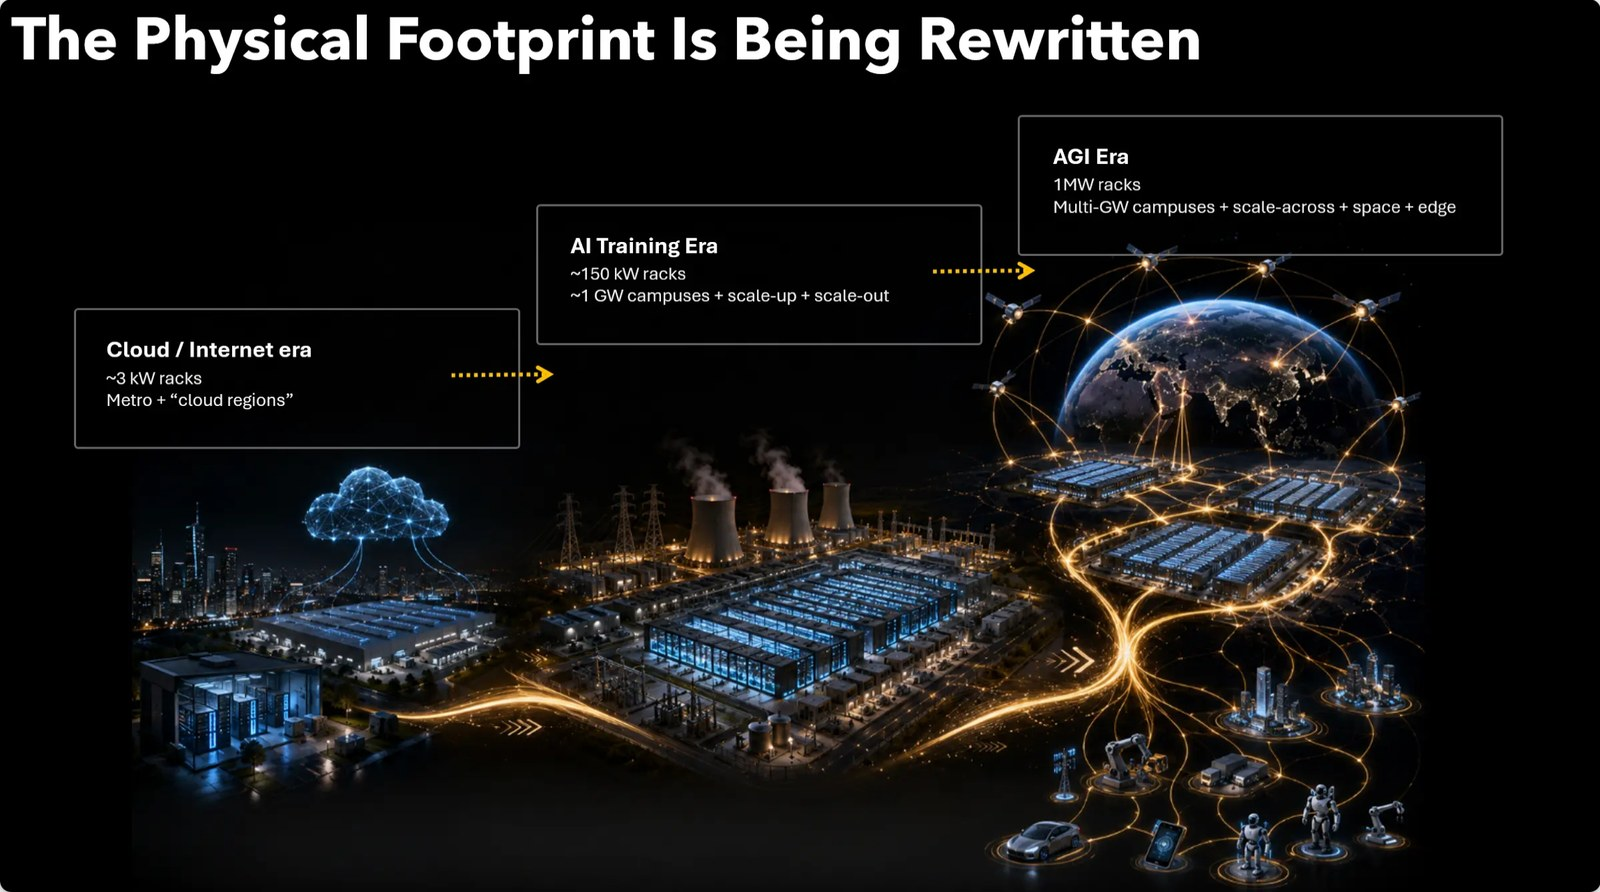
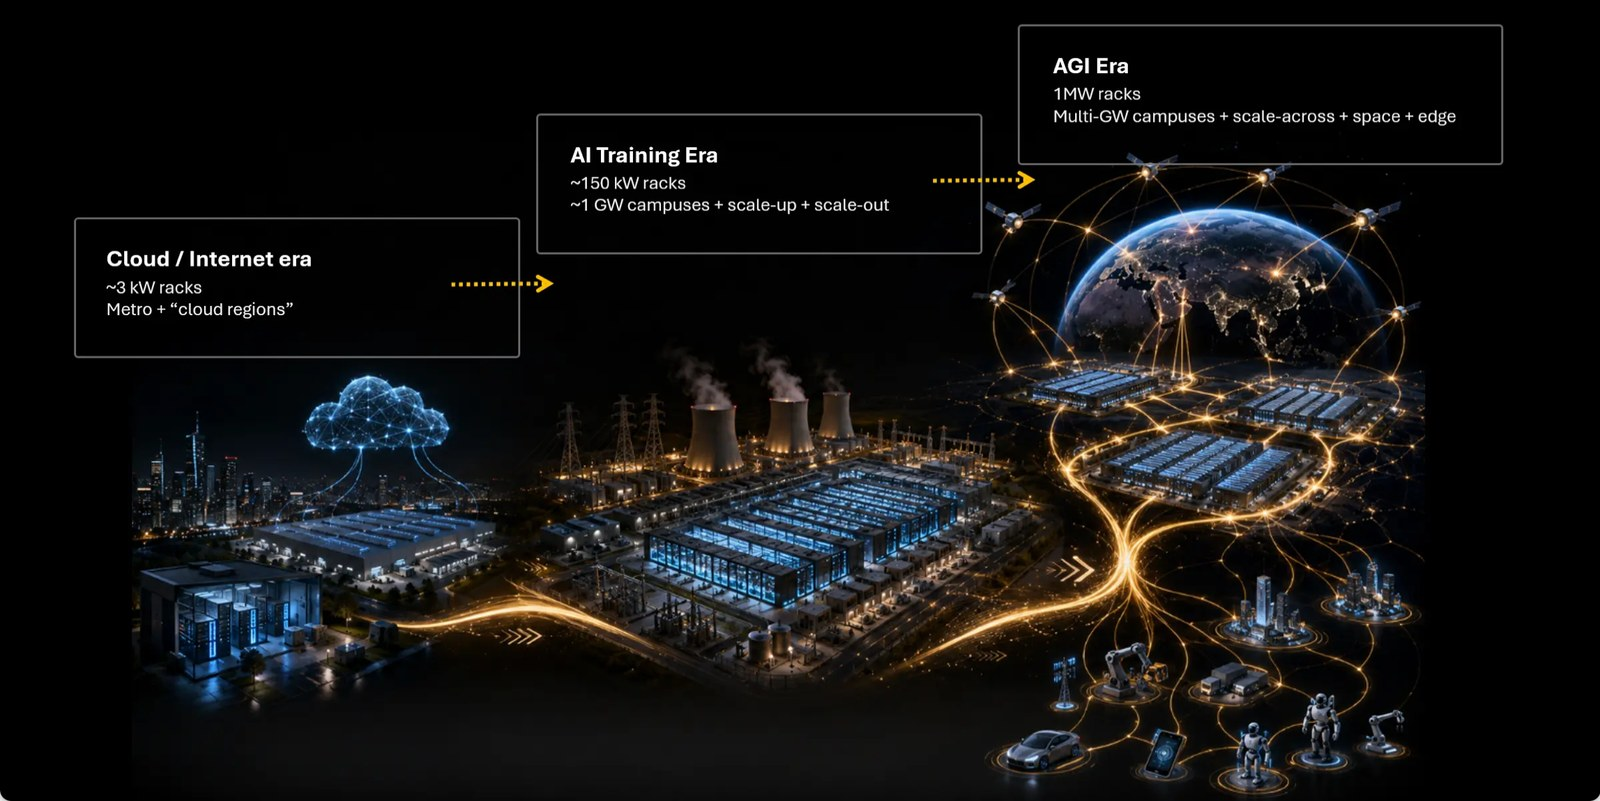
Recut the players as layers x company types; crop the slide title
Players: the axes were wrong. It is now layers down the side
(powered shell, bare metal, AI cloud) against company types across
the top, grouped by era, with the names under each column and fill
showing depth of ownership:

  Internet era  colo & DC platforms do powered shell only;
                hyperscalers do all three
  AI era        PowerShells — miners and mega projects like Abilene
                and SB Energy — are powered shell only; neoclouds
                are mostly bare metal with lighter positions in
                shell and AI cloud; inference clouds sit in AI cloud
                with no bare metal or infra; AI labs are light
                across all three but incoming

Footprint: the slide carried its own title, doubling the page
heading, so the image is now cropped below it by detecting the
title band rather than guessing an offset.

Claude-Session: https://claude.ai/code/session_01Hgqd4x7SZrYKL4wRrtDhL1

diff --git a/public/stack.html b/public/stack.html
@@ -274,7 +274,7 @@
   <div class="body s0" id="stackBody"><div class="stack" id="stack"></div><div class="panel" id="panel"></div><div class="s0hint">Choose a layer</div></div>
 </section>
 
-<div class="ver">v22 · software layer</div>
+<div class="ver">v23 · players matrix</div>
 
 <script>
 const C_PRE='#8b93a6',C_TOD='#e0a355',C_FUT='#57c7dd';
@@ -1113,23 +1113,40 @@ VIZ.footprint=function(){
 /* — DC 2. the players — */
 VIZ.players=function(){
   let s='';
-  const LAY=[['Inference & apps',0],['Orchestration',1],['Servers & GPUs',2],['Shell & cooling',3],['Land & power',4]];
-  const P=[{n:'POWERED SHELL',c:V.amber,x:300,own:[0,0,0,1,1],sub:'land, shell, power'},
-           {n:'BARE METAL',c:V.blue,x:530,own:[0,0,1,0,0],sub:'GPUs as a utility'},
-           {n:'AI CLOUD',c:V.pur,x:760,own:[1,1,0,0,0],sub:'software margin'}];
-  LAY.forEach((l,i)=>{const y=64+i*62;
-    s+=T(272,y+34,l[0],{a:'end',s:12.5,w:600,f:V.dim});
-    s+=LN(292,y+56,952,y+56,V.dim,{sw:1,op:.14});});
-  P.forEach(pl=>{
-    LAY.forEach((l,i)=>{const y=64+i*62,full=pl.own[i];
-      s+=B(pl.x,y,190,48,pl.c,{r:8,fill:pl.c+(full?'66':'0f'),sw:full?1.4:.9,op:full?1:.42});
-      if(full)s+=T(pl.x+95,y+30,l[0],{a:'middle',s:11.5,w:600,m:1});});
-    s+=B(pl.x,392,190,54,pl.c,{r:8,fill:pl.c+'1f'});
-    s+=T(pl.x+95,418,pl.n,{a:'middle',s:12.5,w:700,f:pl.c,ls:'.06em',m:1});
-    s+=T(pl.x+95,436,pl.sub,{a:'middle',s:10,f:V.dim});});
-  s+=T(20,30,'Three businesses, one word',{s:14,w:700,f:V.ink});
-  s+=T(20,50,'full colour = owned  ·  faint = rented from the layer below',{s:11,f:V.dim,m:1});
-  return SV(s);
+  const X0=150,CW=132,GAP=8,col=i=>X0+i*(CW+GAP);
+  const ROWS=[{n:'AI CLOUD',y:118,c:V.pur},{n:'BARE METAL',y:196,c:V.blue},{n:'POWERED SHELL',y:274,c:V.amber}];
+  const C=[
+   {t:'Colo & DC',t2:'platforms',era:0,f:[0,0,2],names:['EQIX','DLR','QTS','Vantage']},
+   {t:'Hyperscalers',t2:'',era:0,f:[2,2,2],names:['Microsoft','Amazon','Google','Meta']},
+   {t:'PowerShells',t2:'miners · mega projects',era:1,f:[0,0,2],names:['HUT · CIFR','APLD · WULF','Abilene','SB Energy']},
+   {t:'Neoclouds',t2:'',era:1,f:[1,2,1],names:['CRWV','NBIS','IREN','NSCALE']},
+   {t:'Inference clouds',t2:'',era:1,f:[2,0,0],names:['Fireworks','Together','Baseten']},
+   {t:'AI labs',t2:'incoming',era:1,f:[1,1,1],names:['OpenAI','Anthropic','xAI']}];
+  // era bands
+  const band=(i0,i1,l,c)=>{const x=col(i0),w=col(i1)+CW-x;
+    return B(x,44,w,26,c,{r:6,fill:c+'26',sw:0})+T(x+w/2,62,l,{a:'middle',s:11,w:700,ls:'.12em',m:1,f:c});};
+  s+=band(0,1,'INTERNET ERA',V.grey)+band(2,5,'AI ERA',V.amber);
+  // row labels + grid
+  ROWS.forEach(r=>{s+=T(132,r.y+40,r.n,{a:'end',s:12.5,w:700,f:r.c});
+    s+=LN(X0-6,r.y+66,977,r.y+66,V.dim,{sw:1,op:.14});});
+  // cells
+  C.forEach((c,i)=>{const x=col(i);
+    s+=T(x+CW/2,92,c.t,{a:'middle',s:12.5,w:600});
+    if(c.t2)s+=T(x+CW/2,108,c.t2,{a:'middle',s:9,f:V.dim,m:1});
+    ROWS.forEach((r,k)=>{const lv=c.f[k];
+      if(lv===2)s+=B(x,r.y+8,CW,52,r.c,{r:8,fill:r.c+'99',sw:1.4});
+      else if(lv===1)s+=B(x,r.y+8,CW,52,r.c,{r:8,fill:r.c+'26',sw:1,d:1})+
+        '<rect x="'+x+'" y="'+(r.y+8)+'" width="'+CW+'" height="52" rx="8" fill="none" stroke="'+r.c+'" stroke-width="1" stroke-dasharray="5 4" opacity=".75"/>';
+      else s+=B(x,r.y+8,CW,52,V.dim,{r:8,fill:'#ffffff05',sw:.7,op:.35});});
+    // names under the column
+    s+=LN(x,358,x+CW,358,V.dim,{sw:1,op:.25});
+    c.names.forEach((n,j)=>s+=T(x+CW/2,378+j*19,n,{a:'middle',s:10,f:'#aab1c2',m:1}));});
+  // legend
+  const key=(x,fill,dash,l)=>{let o=B(x,474,26,16,V.ink,{r:4,fill:fill,sw:dash?1:1.2});
+    if(dash)o+='<rect x="'+x+'" y="474" width="26" height="16" rx="4" fill="none" stroke="'+V.ink+'" stroke-width="1" stroke-dasharray="4 3"/>';
+    return o+T(x+34,486,l,{s:11,f:V.dim});};
+  s+=key(150,'#e9ebf299',0,'owns it')+key(300,'#e9ebf226',1,'partial / building')+key(500,'#ffffff05',0,'not in it');
+  return SVh(s,510);
 };
 
 /* — DC 3. the economics — */
